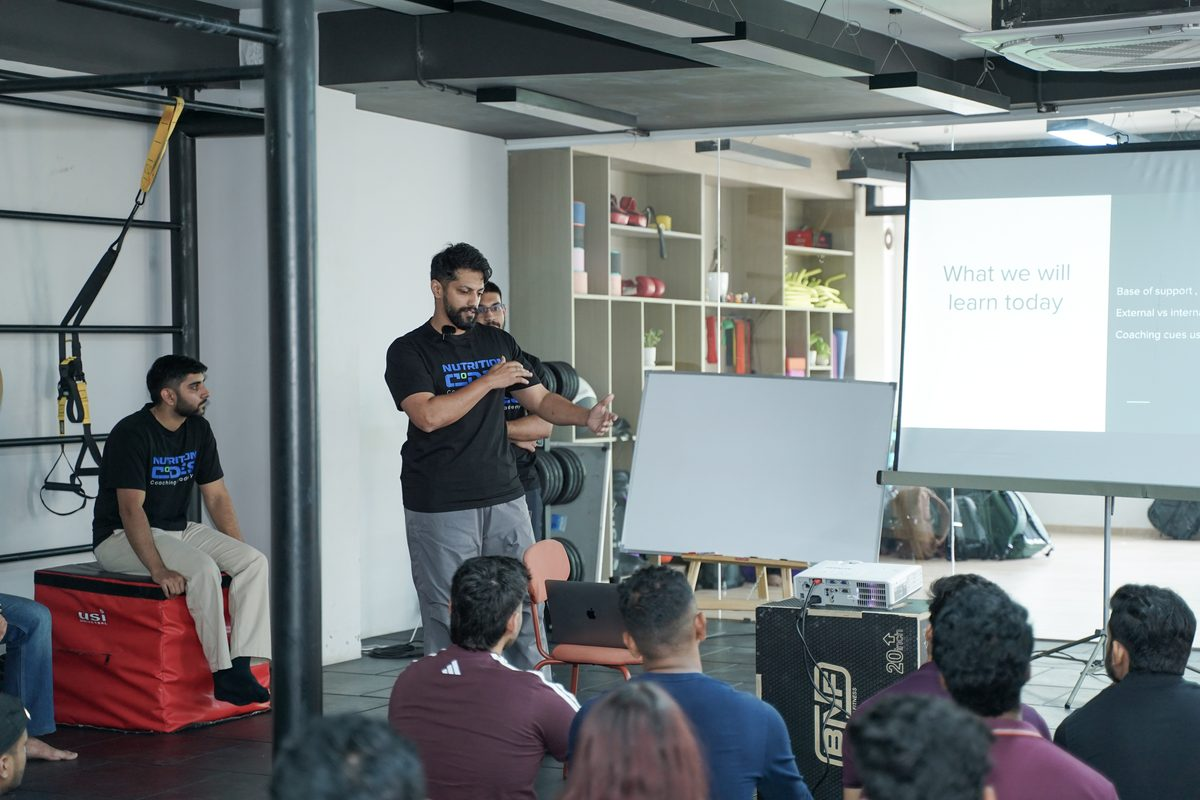
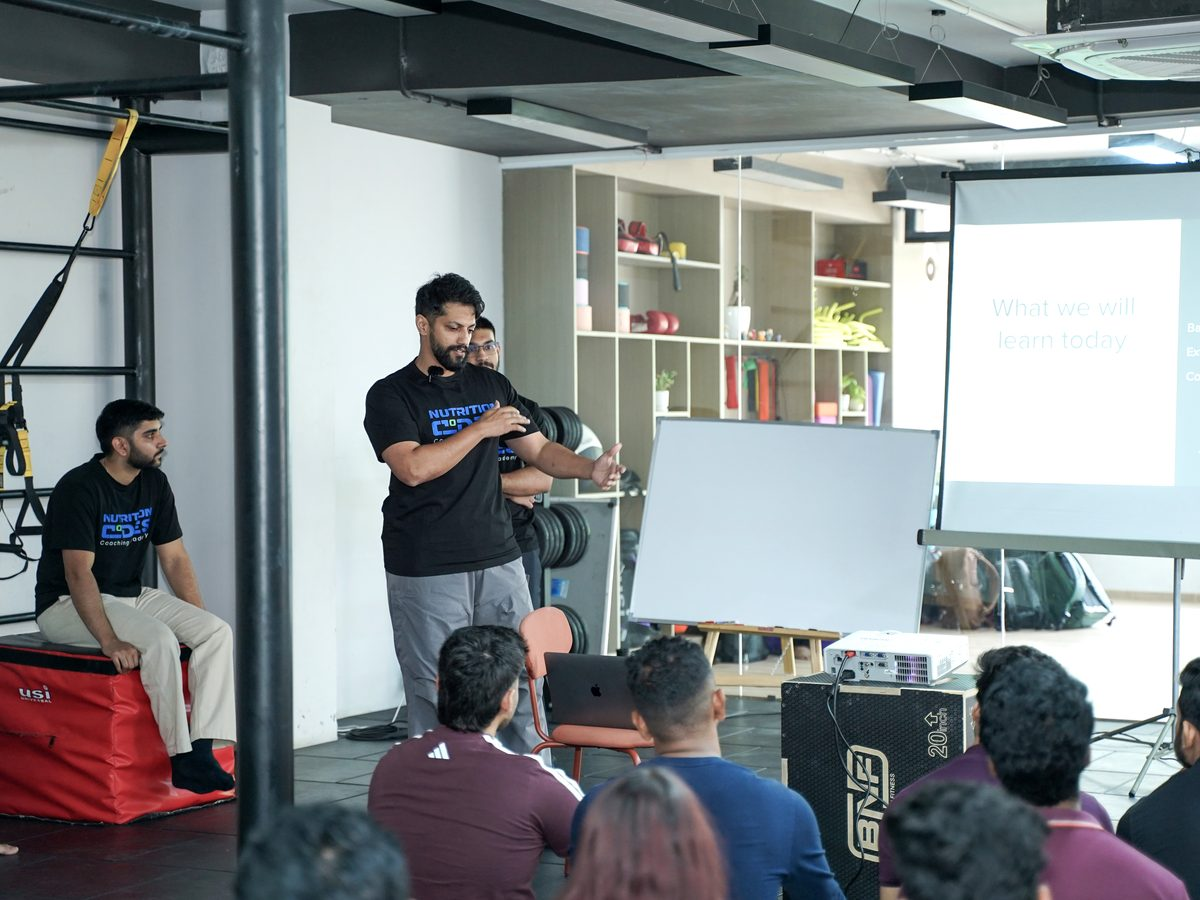
Fix the home hero rendering too dark
Reported from the live site: the lower half was crushed to black and the
seated students were invisible.

Two causes.

The home hero was still using the shared .hero-overlay, which is opaque
#05101f for the bottom 30% and still 75% opaque at 60% height. Courses and
About had already been given softer gradients; home had not. Replaced it
inline with a gentler ramp, and added a left-side scrim so the headline
keeps its contrast without dimming the coach or the slide. The class is
kept so the mobile !important rule still wins on phones.

The export also never actually cropped. Source and target were both 3:2,
so the full frame including all the empty ceiling was kept, which pushed
the people down into the darkest part of the gradient. Re-cropped to 1.6
anchored low, so the ceiling is trimmed and the subjects sit higher.

Also nudged object-position to 42% and brightness to 1.14.

Checked at 1600x780, 1440x900 and 390x844.

diff --git a/index.html b/index.html
@@ -191,10 +191,10 @@
   <section id="main" class="relative flex flex-col justify-center md:justify-end" style="min-height:100vh;min-height:100svh;">
     <picture style="position:absolute;top:0;left:0;width:100%;height:100%;display:block;z-index:0;">
       <source media="(max-width:1023px)" srcset="assets/images/hero-home-mobile.jpg">
-      <img decoding="async" loading="eager" fetchpriority="high" src="assets/images/hero-home.jpg" alt="NCA Faculty and Students" class="hero-bg-img" style="width:100%;height:100%;object-fit:cover;display:block;filter:brightness(1.12) saturate(1.05);">
+      <img decoding="async" loading="eager" fetchpriority="high" src="assets/images/hero-home.jpg" alt="NCA Faculty and Students" class="hero-bg-img" style="width:100%;height:100%;object-fit:cover;object-position:center 42%;display:block;filter:brightness(1.14) saturate(1.05);">
     </picture>
     <!-- stronger overlay on mobile for text readability -->
-    <div class="hero-overlay" style="position:absolute;top:0;left:0;width:100%;height:100%;z-index:1;"></div>
+    <div class="hero-overlay" style="position:absolute;top:0;left:0;width:100%;height:100%;z-index:1;background:linear-gradient(to right,rgba(5,16,31,0.62) 0%,rgba(5,16,31,0.34) 34%,rgba(5,16,31,0.00) 62%),linear-gradient(to top,rgba(5,16,31,0.90) 0%,rgba(5,16,31,0.70) 26%,rgba(5,16,31,0.30) 58%,rgba(5,16,31,0.04) 100%);"></div>
     <div class="relative w-full max-w-7xl mx-auto px-5 md:px-8 pb-10 md:pb-28 pt-24 md:pt-0 space-y-5 md:space-y-7 text-center md:text-left" style="z-index:2;">
       <h1 class="font-display text-4xl sm:text-5xl md:text-6xl lg:text-7xl font-extrabold leading-tight tracking-tight text-white hero-text-shadow">
         Science-Backed<br>
